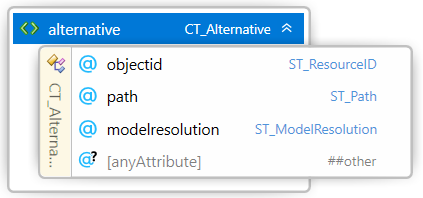
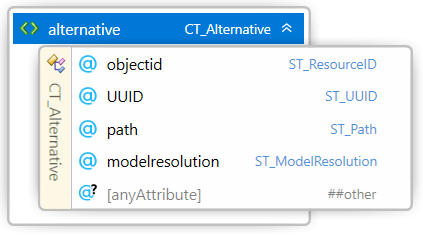
alternatives UUID and clarififications

diff --git a/3MF Production Extension.md b/3MF Production Extension.md
@@ -263,6 +263,7 @@ Element **\<alternative>**
 | Name | Type | Use | Default | Annotation |
 | --- | --- | --- | --- | --- |
 | objectid | **ST\_ResourceID** | required | | objectid indexes into the model file to the object with the corresponding id. |
+| UUID | **ST\_UUID** | required | | A globally unique identifier to allow to identify the alternative model in an external DRM system |
 | path | **ST\_Path** | required | | A file path to the alternative model file being referenced. The path is an absolute path from the root of the 3MF container. |
 | modelresolution | **ST\_ModelResolution** |  | fullres  | Indicates the intended use the alternative object model. Valid options are: fullres, lowres, obfuscated. |
 | @anyAttribute | | | | |
@@ -272,6 +273,14 @@ The \<alternative> element specifies an alternative representations of a given m
 Only an object in the root model file MAY contain alternative representations. Non-root model file object MUST only reference objects in the same model file.
 
 These two limitations ensure there is only a single level of "depth" to multi-file model relationships within a package and explicitly prevents complex or circular object references.
+
+The *modelresolution* element specify the intent of the model:
+
+* *fullres*: the model is a high resolution and it is intended for printing. It SHOULD be only one fullres model in the object.
+* *lowres*: the model is low resolution, for example for visualization purposes, and not intended for printing. Printers SHOULD reject lowres models.
+* *obfuscated*: the intent of the model is to provide a high resolution of the model by hiding some sensitive zones, for example, for privacy purposes. The model MIGHT still be printable. A printer SHOULD reject an obfuscated model unless specifically instructed.
+
+The *modelresolution* specified in the \<alternative> element overrides the optionally specified in the referenced model by the path.
 
 # Part II. Appendixes
 
@@ -375,8 +384,9 @@ See [the 3MF Core Specification glossary](https://github.com/3MFConsortium/spec_
 	
 	<xs:complexType name="CT_Alternative">
 		<xs:attribute name="objectid" type="ST_ResourceID" use="required"/>
+        <xs:attribute name="UUID" type="ST_UUID" use="required"/>
 		<xs:attribute name="path" type="ST_Path" use="required"/>
-		<xs:attribute name="modelresolution" type="ST_ModelResolution" use="required"/>
+		<xs:attribute name="modelresolution" type="ST_ModelResolution" default="fullres"/>
 		<xs:anyAttribute namespace="##other" processContents="lax"/>
 	</xs:complexType>
 	
